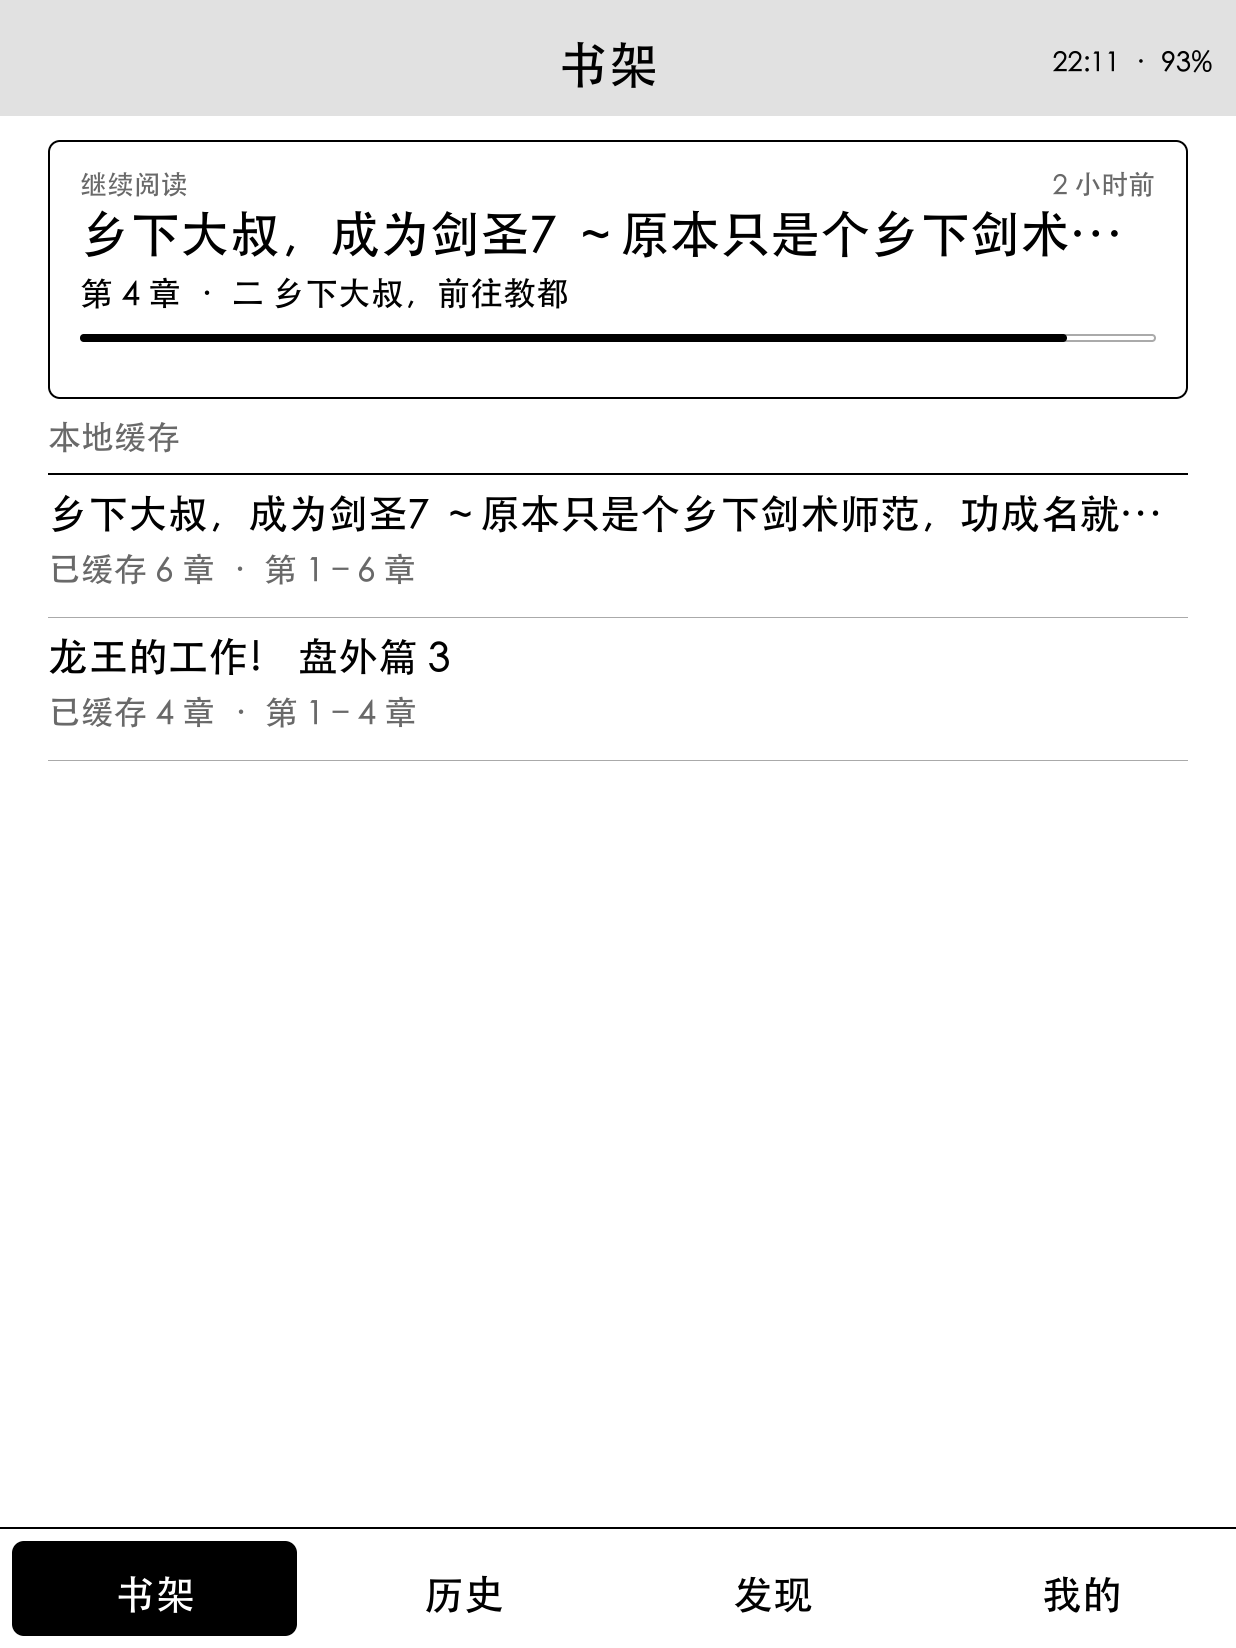
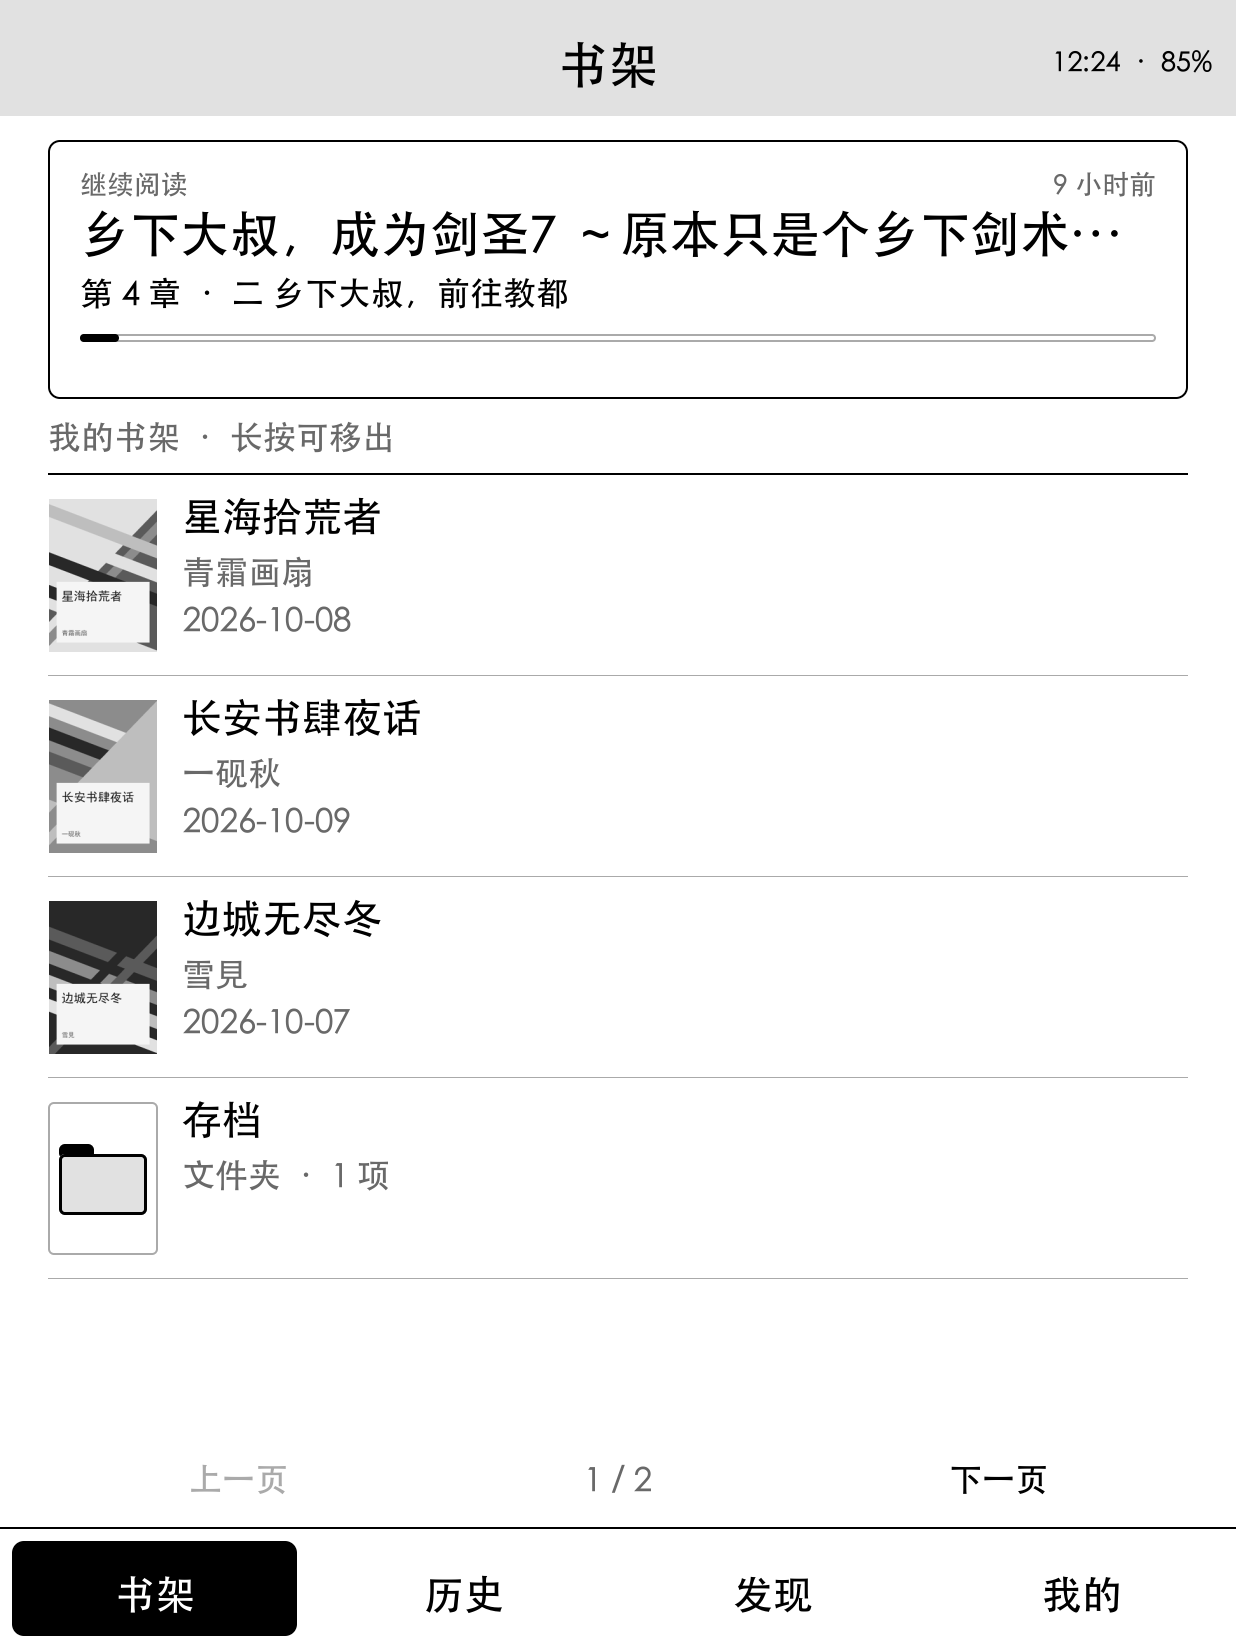
release: v1.3.0 —— 书签、书架编辑、阅读统计、休眠封面、更快的 WebP

diff --git a/README.md b/README.md
@@ -5,33 +5,43 @@
 在已越狱的 Kindle 上阅读轻书架的小说与漫画
 
 [![最新版本](https://img.shields.io/github/v/release/mmnnwjw/KinNovel?label=%E6%9C%80%E6%96%B0%E7%89%88%E6%9C%AC)](https://github.com/mmnnwjw/KinNovel/releases/latest)
+[![构建](https://img.shields.io/github/actions/workflow/status/mmnnwjw/KinNovel/ci.yml?branch=main&label=%E6%9E%84%E5%BB%BA)](https://github.com/mmnnwjw/KinNovel/actions/workflows/ci.yml)
 [![许可](https://img.shields.io/github/license/mmnnwjw/KinNovel?label=%E8%AE%B8%E5%8F%AF)](LICENSE)
 ![平台](https://img.shields.io/badge/%E5%B9%B3%E5%8F%B0-Kindle%20%2B%20KUAL-informational)
 
-<img src="docs/images/shelf.png" width="24%" alt="书架">
-<img src="docs/images/reader.png" width="24%" alt="阅读">
-<img src="docs/images/reader-image.png" width="24%" alt="插图">
-<img src="docs/images/settings.png" width="24%" alt="设置">
+<img src="docs/images/shelf.png" width="31%" alt="书架：继续阅读卡片、云端书架与文件夹">
+<img src="docs/images/reader-bookmark.png" width="31%" alt="阅读菜单：刚添加了书签">
+<img src="docs/images/reader-image.png" width="31%" alt="阅读器里的整页插图">
 
 </div>
 
-## 这是什么
+## 关于
 
-KinNovel 是 [轻书架](https://www.lightnovel.life) 的非官方 Kindle 客户端。它直接运行在 Kindle 的原生系统中，通过 KUAL 启动，不需要浏览器或 KOReader。登录账号后，书架、阅读进度和历史会与网站同步。
+KinNovel 是 [轻书架](https://www.lightnovel.life) 的非官方 Kindle 客户端。它直接运行在 Kindle 的原生系统里，通过 KUAL 启动，不需要浏览器或 KOReader。
 
-## 为什么用它
+登录账号后，书架、阅读进度和历史会与网站同步；读过的内容存在本机，离线时照样能读。界面专为墨水屏设计：按钮大、翻页基本不闪，只在需要清除残影的地方局部刷新。
 
-- **为墨水屏设计**：大号按钮，翻页尽量不闪屏，只在需要清除残影时整屏刷新。
-- **小说与漫画都能读**：插图可全屏放大，漫画支持跨页和从右到左翻页。
-- **离线也能读**：读过的章节、字体和图片都存在本地，没有网络或站点暂时不可用时照样能翻。
-- **在 Kindle 上直接找书**：可以浏览排行和分类，也可以用屏幕键盘拼音输入来搜索。
-- **装好就能用**：只有一个程序文件，不依赖 Python 等运行环境。
+## 功能
 
-## 快速开始
+- **小说**：字号、行距、段间距、页边距可调，简繁转换，插图点开可全屏放大。
+- **书签与跳页**：菜单里一键加书签，在「目录与书签」里查看；拖动进度条可在章内快速跳页。
+- **漫画**：支持跨页和从右到左翻页，后台预取后面几页。
+- **书架**：显示云端书架和文件夹；长按可以移出书架，在详情页可以加入书架。
+- **找书**：浏览最新、排行和分类，也可以用屏幕键盘拼音输入来搜索。
+- **离线阅读**：章节、字体和图片都会缓存，网络断开或站点暂时不可用时照样能读。
+- **阅读统计**：记录每天的阅读时长和页数、连续阅读天数，以及读得最多的书。统计只保存在本机。
+- **更多**：阅读时可调前光和色温，可选休眠时显示当前书的封面，「存储空间」页可清理缓存，有新版本时会提示。
 
-需要一台已越狱、装有 [KUAL](https://www.mobileread.com/forums/showthread.php?t=203326) 的 Kindle（固件 5.x）。
+## 安装
 
-1. 从 [Releases](https://github.com/mmnnwjw/KinNovel/releases/latest) 下载最新的 `KinNovel-vX.Y.Z.zip` 并解压。
+### 需要
+
+- 已越狱、装有 [KUAL](https://www.mobileread.com/forums/showthread.php?t=203326) 的 Kindle，固件 5.x。
+- 目前只在 Kindle Paperwhite 5 上实机测试过。其他机型按 KOReader 的机型表做了适配，欢迎反馈使用情况。
+
+### 步骤
+
+1. 从 [Releases](https://github.com/mmnnwjw/KinNovel/releases/latest) 下载 `KinNovel-vX.Y.Z.zip` 并解压。
 2. 用 USB 连接 Kindle，把 `KinNovel` 文件夹里的全部内容复制到 `extensions/kinnovel/`。
 3. 如需同步云端书架和进度，在 `extensions/kinnovel/bin/config.json` 中填写账号：
 
@@ -41,45 +51,60 @@ KinNovel 是 [轻书架](https://www.lightnovel.life) 的非官方 Kindle 客户
 
 4. 在 KUAL 中选择 **KinNovel**。
 
-升级时直接覆盖安装，配置、进度和缓存都会保留。
+升级时直接覆盖安装即可，配置、进度、书签和缓存都会保留。
 
-### 基本操作
+## 使用
 
 | 操作 | 效果 |
 |:--|:--|
 | 点屏幕右侧 / 左滑 | 下一页 |
 | 点屏幕左侧 / 右滑 | 上一页 |
-| 点屏幕中间 | 打开阅读菜单（目录、字号、亮度、设置） |
+| 点屏幕中间 / 下滑 | 打开阅读菜单（目录与书签、字号、亮度、设置） |
+| 菜单顶栏的书签图标 | 给当前页加书签，或删除这一页的书签 |
+| 拖动菜单里的进度条 | 跳到本章任意一页 |
 | 点插图 | 全屏查看并放大 |
+| 长按书架上的书 / 文件夹 | 移出书架 / 删除文件夹 |
 | 「我的 → 退出」 | 退出并回到 Kindle 原来的界面 |
 
-其他选项都在「设置」页中，也可以直接编辑 `config.json`。
+其他选项都在「我的 → 设置」里，也可以直接编辑 `config.json`。「休眠显示封面」重启 KinNovel 后生效。
 
-## 获取帮助
+### 遇到问题
 
-- 程序日志在 `extensions/kinnovel/logs/kinnovel.log`，反馈问题时请附上。
-- 问题与建议请提交到 [Issues](https://github.com/mmnnwjw/KinNovel/issues)。
-- 目前只在 Kindle Paperwhite 5 上做过实机测试，欢迎反馈其他机型的使用情况。
+- 程序日志在 `extensions/kinnovel/logs/kinnovel.log`。异常退出时，下次启动会提示一次，详细信息也写在这个日志里。
+- 问题和建议请提交到 [Issues](https://github.com/mmnnwjw/KinNovel/issues)，并附上日志。
 
 ## 参与开发
 
-项目使用 Rust 编写，设计说明见 [`rust/DESIGN.md`](rust/DESIGN.md) 和 [`rust/UI-DESIGN.md`](rust/UI-DESIGN.md)。从源码构建：
+项目用 Rust 编写。设计说明见 [`rust/DESIGN.md`](rust/DESIGN.md)，各页面的界面规范见 [`rust/UI-DESIGN.md`](rust/UI-DESIGN.md)，各机型的差异见 [`rust/research-kindle-devices.md`](rust/research-kindle-devices.md)。
 
 ```bash
 git clone --recursive https://github.com/mmnnwjw/KinNovel.git
 cd KinNovel/rust
-./build.sh kindle       # 构建 Kindle 程序
 ./build.sh host-test    # 运行测试
-python ../tools/package_release.py   # 打包发布用的 zip
+./build.sh kindle       # 构建 Kindle 程序 (armv7, 静态链接)
+./build.sh host         # 主机预览程序: kinnovel --preview out.pgm
 ```
 
+构建需要 Rust、[cargo-zigbuild](https://github.com/rust-cross/cargo-zigbuild)，以及 pip 安装的 `ziglang`。推送 `vX.Y.Z` 标签后，GitHub Actions 会自动构建并发布 Release。
+
 早先的 Python 版本保存在 [`legacy`](https://github.com/mmnnwjw/KinNovel/tree/legacy) 分支。欢迎提交 Pull Request。
+
+## 计划
+
+- [ ] 轻书架服务器恢复后，用真实接口核对漫画、搜索、书架写入等功能（目前用模拟数据测试）。
+- [ ] 加快 WebP 漫画页的解码。
+- [ ] 在书架里新建文件夹，以及在文件夹之间移动书。
 
 ## 维护者与致谢
 
 由 [@mmnnwjw](https://github.com/mmnnwjw) 维护，代码由 Claude Opus 5.5 与 Claude Sonnet 5.5 编写。
 
-接口与阅读模型参考 [LightNovelShelf/Web](https://github.com/LightNovelShelf/Web)，屏幕驱动来自 [FBInk](https://github.com/NiLuJe/FBInk)，机型适配、刷新方式和屏幕键盘参考了 [KOReader](https://github.com/koreader/koreader) 与 [kComics](https://github.com/lxdklp/kComics)，拼音词库来自 [rime-pinyin-simp](https://github.com/rime/rime-pinyin-simp)。第三方组件及许可见 [`THIRD-PARTY-NOTICES.md`](THIRD-PARTY-NOTICES.md)。
+- 接口与阅读模型参考 [LightNovelShelf/Web](https://github.com/LightNovelShelf/Web)。
+- 屏幕驱动来自 [FBInk](https://github.com/NiLuJe/FBInk)。
+- 机型适配、刷新策略、屏幕键盘和休眠封面参考 [KOReader](https://github.com/koreader/koreader) 与 [kComics](https://github.com/lxdklp/kComics)。
+- 拼音词库来自 [rime-pinyin-simp](https://github.com/rime/rime-pinyin-simp)。
+
+第三方组件及其许可见 [`THIRD-PARTY-NOTICES.md`](THIRD-PARTY-NOTICES.md)。
 
 ## 许可
 

diff --git a/docs/releases/v1.3.0.md b/docs/releases/v1.3.0.md
@@ -1,0 +1,22 @@
+## 新功能
+
+- **书签**：阅读时打开菜单，点顶栏的书签按钮就能给当前页加书签，有书签的页右上角会显示角标。阅读页里的「目录」变成了「目录与书签」，可以在这里跳到书签位置，长按可删除。改字号后书签位置依然准确。
+- **章内跳页**：拖动或点按菜单里的进度条，可以跳到本章任意一页。在目录里换章或跳书签，都在原来的阅读页里完成，返回时不会多出几层页面。
+- **书架文件夹与编辑**：云端书架可以点进文件夹浏览。长按书籍可移出书架，长按文件夹可删除它（里面的书移到上一层），两者都会先确认。书籍详情页新增「加入书架 / 移出书架」。
+- **阅读统计**：「我的 → 阅读统计」显示今天、近 7 天和累计的阅读时长与页数、连续阅读天数、近 14 天的柱状图和读得最多的书。统计只保存在本机。
+- **存储空间**：「我的 → 存储空间」显示章节、字体、插图和漫画缓存各占多少空间，可以分别清理或全部清理。阅读进度、书签、登录状态和设置不受影响。
+- **休眠显示封面**（可选）：在「设置 → 显示」中打开，重启 KinNovel 后生效。休眠时会显示正在读的书的封面。有广告的机型仍使用系统屏保。
+- **检查更新**：每天最多检查一次 GitHub 上的新版本，有更新时「关于」一栏会提示，不会自动安装。可在设置中关闭。
+- **段间距**：「设置 → 阅读」新增段间距选项。
+
+## 改进
+
+- WebP 格式的漫画和插图解码速度提高一倍多，翻漫画更快。
+- 点击阅读页顶部的状态栏不再误翻页。
+- 程序异常退出时，详细信息会写入 `logs/kinnovel.log`，下次启动时会提示一次。
+
+## 安装
+
+下载 `KinNovel-v1.3.0.zip`，把其中 `KinNovel` 文件夹里的全部内容复制到 Kindle 的 `extensions/kinnovel/`，然后在 KUAL 中打开 KinNovel。升级时直接覆盖即可，配置、进度、书签和缓存都会保留。
+
+注：书架编辑（加入、移出、删除文件夹）会写回云端书架。由于轻书架服务器维护期间无法实际验证，如遇问题请提交 Issue。
